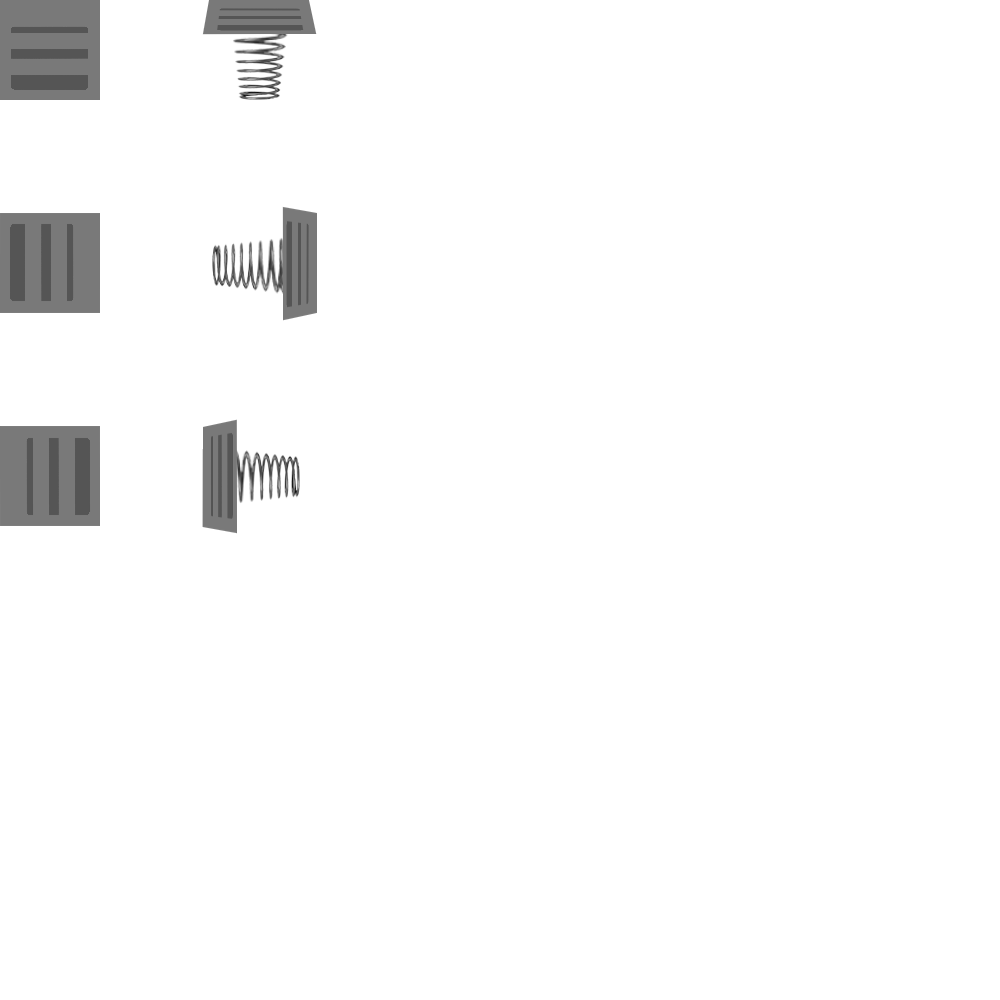
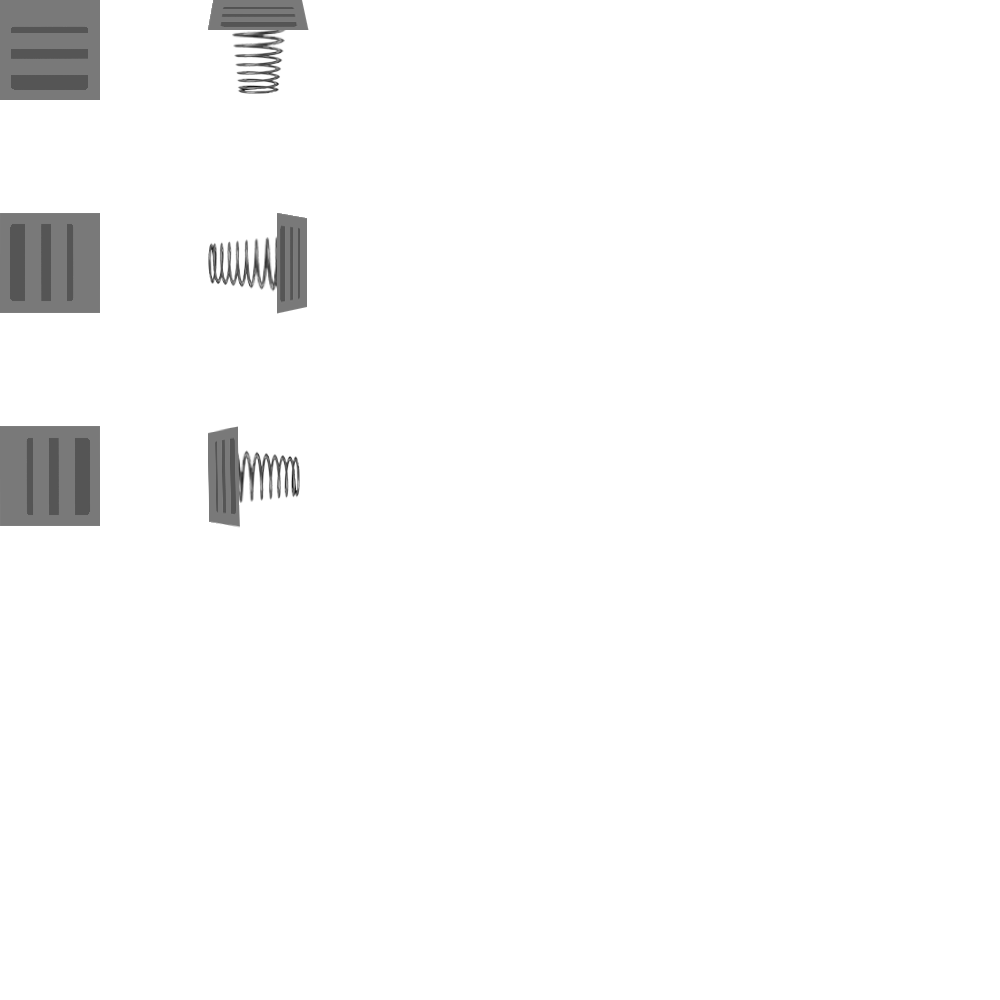
launchpads added, ability to toggle between animation w level file, but no player interaction yet (same for spikes and plates)

Changed region(s): [[0.186, 0.186, 0.341, 0.341], [0.186, 0.0, 0.31, 0.124], [0.186, 0.403, 0.248, 0.527]]

diff --git a/Puzzle/src/Launchpad.java b/Puzzle/src/Launchpad.java
@@ -1,0 +1,60 @@
+import javafx.scene.canvas.GraphicsContext;
+import javafx.scene.image.Image;
+import javafx.scene.paint.Color;
+
+public class Launchpad extends Element{
+	
+	private final static Image LAUNCHPAD = new Image(PuzzleUtil.FILE_PATH_RES+"launchpads.png", false);
+private int spikeCycle = 0, spikeDir = 0, bounceFrames = 0;
+	
+	public Launchpad() {
+		this(0, 0, PuzzleUtil.SPLATE_WIDTH, PuzzleUtil.SPLATE_HEIGHT,"test", 'l',0);
+	}
+	public Launchpad(int x, int y, int w, int h, String c, char orientation, int status) {
+		super(x,y,w,h,c,orientation,status);
+	}
+	
+	@Override
+	public void draw(GraphicsContext gc) {
+		//600 vertical, 400 horizontal
+		int sx = 0;//spikeCycle*400;
+		int sy = 0;//spikeDir*600;
+		
+		switch(orientation) {
+        //up
+		case 'u':
+        	sx = 0;
+        	sy = 0;
+      	  break; 
+      	//left
+        case 'l':
+        	sx = 0;
+        	sy = 213;
+      	  break;
+      	//right
+        case 'r':
+        	sx = 0;
+        	sy = 426;
+      	  break;
+		}
+		if(status == 1) {
+			sx += 208;
+		}
+
+		
+		gc.drawImage(LAUNCHPAD, sx, sy, 100, 100, x, y, w, h);
+	}
+	@Override
+	//every frame, do this
+	public void update(long millis) {
+		//advanceCycle(millis); //advance when button pushed
+	}
+	
+	private void advanceCycle(long millis) {
+		bounceFrames += 1;
+		if (bounceFrames > 20) {
+			bounceFrames = 0;
+			spikeCycle = (spikeCycle == 3 ? 0 : spikeCycle + 1);
+		}
+	}
+}

diff --git a/Puzzle/src/Puzzle.java b/Puzzle/src/Puzzle.java
@@ -184,8 +184,10 @@ public class Puzzle extends Application {
         	  levelElements.add(new circlePlate(v[0], v[1], v[2], v[3],Integer.parseInt(data[5])));//last int is color
         	  break;
           case "spike":
-        	  levelElements.add(new Spike(v[0], v[1], v[2], v[3], data[5], data[6].charAt(0), Integer.parseInt(data[7])));//gotta do color and direction
+        	  levelElements.add(new Spike(v[0], v[1], v[2], v[3], data[5], data[6].charAt(0), Integer.parseInt(data[7])));
         	  break;
+          case "launchpad":
+        	  levelElements.add(new Launchpad(v[0], v[1], v[2], v[3], data[5], data[6].charAt(0), Integer.parseInt(data[7])));
           }
         }
         scan.close();

diff --git a/Puzzle/src/PuzzleUtil.java b/Puzzle/src/PuzzleUtil.java
@@ -18,6 +18,8 @@ class PuzzleUtil{
 	public static final int SPIKE_HEIGHT = 50;
 	public static final int SPLATE_WIDTH = 100;
 	public static final int SPLATE_HEIGHT = 100;
+	public static final int LAUNCHPAD_WIDTH = 100;
+	public static final int LAUNCHPAD_HEIGHT = 100;
 	public static final long NANO_IN_SEC = 1000000000;
 
 	
